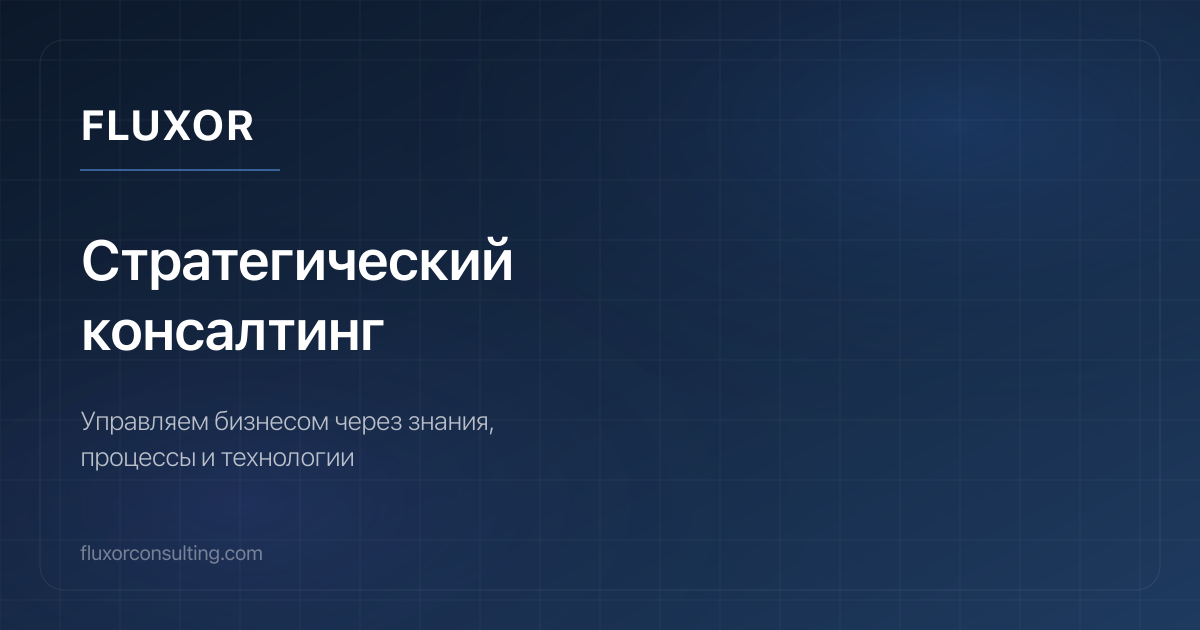
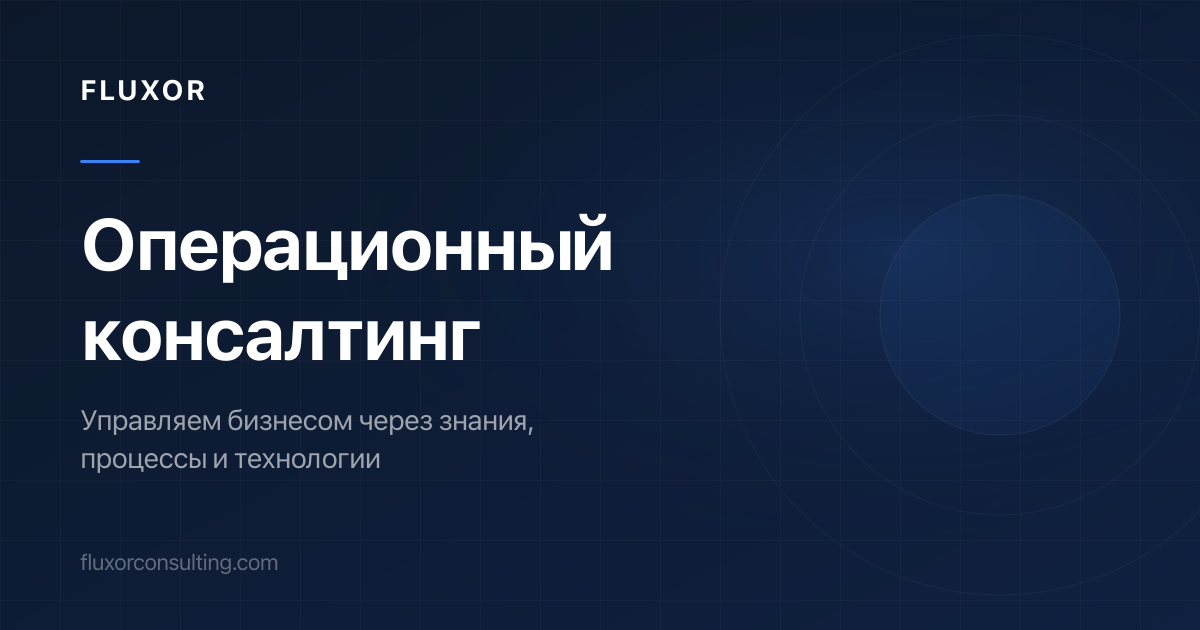
Операционный консалтинг, динамические карточки опыта, фиксы Safari
- Везде заменён «стратегический» на «операционный» (тексты, meta, OG)
- OG-картинка перегенерирована
- AdvantagesPortfolio: карточки читаются из JSON динамически (длина массива)
- Убрана карточка ретейла, осталось 2 кейса
- globals.css: body background #0c182a (убрана белая подложка при скролле)
- layout.tsx: favicon.ico + apple-icon.png прописаны явно в metadata
- favicon.ico добавлен в public/

diff --git a/src/components/sections/Hero.tsx b/src/components/sections/Hero.tsx
@@ -56,7 +56,7 @@ export default function Hero() {
           <div className="grid lg:grid-cols-12 gap-[clamp(1.5rem,3vh,3rem)] lg:gap-8 items-center">
             {/* Left — Text Content */}
             <div className="lg:col-span-6 flex flex-col justify-center">
-              <div className="inline-flex items-center gap-2 px-3 py-1.5 rounded-full bg-white/[0.06] border border-white/[0.12] backdrop-blur-md mb-[clamp(0.75rem,2vh,1.5rem)] w-fit text-sm font-medium text-white/80">
+              <div className="inline-flex items-center gap-2 px-3 py-1.5 rounded-full bg-white/[0.08] border border-white/[0.12] mb-[clamp(0.75rem,2vh,1.5rem)] w-fit text-sm font-medium text-white/80">
                 <span className="w-2 h-2 rounded-full bg-blue-400 animate-pulse" />
                 {t('badge')}
               </div>
@@ -78,7 +78,7 @@ export default function Hero() {
                 </a>
                 <a
                   href="#solutions"
-                  className="w-full sm:w-auto px-6 py-3 bg-white/5 backdrop-blur-md border border-white/10 text-white font-medium rounded-xl hover:bg-white/10 hover:border-white/20 transition-all text-center text-sm sm:text-base"
+                  className="w-full sm:w-auto px-6 py-3 bg-white/[0.08] border border-white/10 text-white font-medium rounded-xl hover:bg-white/[0.12] hover:border-white/20 transition-all text-center text-sm sm:text-base"
                 >
                   {t('learnMore')}
                 </a>
@@ -93,7 +93,7 @@ export default function Hero() {
                   return (
                     <div
                       key={area.key}
-                      className={`p-[clamp(1rem,2vh,1.75rem)] rounded-3xl bg-white/[0.06] border border-white/[0.12] backdrop-blur-xl hover:bg-white/[0.1] hover:border-white/[0.2] hover:-translate-y-1 hover:shadow-lg hover:shadow-white/[0.03] transition-all duration-300 cursor-default ${area.colSpan}`}
+                      className={`p-[clamp(1rem,2vh,1.75rem)] rounded-3xl bg-white/[0.08] border border-white/[0.12] hover:bg-white/[0.12] hover:border-white/[0.2] hover:-translate-y-1 hover:shadow-lg hover:shadow-white/[0.03] transition-all duration-300 cursor-default ${area.colSpan}`}
                     >
                       <div className="flex items-start mb-[clamp(0.75rem,1.5vh,1.25rem)]">
                         <div className="p-3 rounded-2xl bg-white/[0.06] border border-white/[0.12]">

diff --git a/src/app/[locale]/layout.tsx b/src/app/[locale]/layout.tsx
@@ -17,17 +17,17 @@ const SITE_URL = 'https://fluxorconsulting.com';
 
 const meta = {
   ru: {
-    title: 'Fluxor Consulting — Стратегический консалтинг',
+    title: 'Fluxor Consulting — Операционный консалтинг',
     description:
-      'Fluxor Consulting — эксперт в трансформации бизнеса через комплексный консалтинг и цифровизацию. Стратегия, процессы, технологии.',
-    ogDescription: 'Стратегический консалтинг. Измеримые результаты.',
+      'Fluxor Consulting — эксперт в трансформации бизнеса через комплексный операционный консалтинг и цифровизацию. Процессы, эффективность, результаты.',
+    ogDescription: 'Операционный консалтинг. Измеримые результаты.',
     locale: 'ru_RU',
   },
   en: {
-    title: 'Fluxor Consulting — Strategic Advisory',
+    title: 'Fluxor Consulting — Operational Consulting',
     description:
-      'Fluxor Consulting delivers senior-level expertise across strategy, finance, and operations. From strategy to implementation.',
-    ogDescription: 'Strategic Advisory. Measurable Results.',
+      'Fluxor Consulting delivers senior-level expertise in operational transformation, process efficiency, and digitalization. From diagnosis to measurable results.',
+    ogDescription: 'Operational Consulting. Measurable Results.',
     locale: 'en_US',
   },
 } as const;
@@ -74,6 +74,13 @@ export async function generateMetadata({ params }: Props): Promise<Metadata> {
       title: t.title,
       description: t.description,
       images: [`${SITE_URL}/og.png`],
+    },
+    icons: {
+      icon: [
+        { url: '/favicon.ico', sizes: '32x32' },
+        { url: '/icon.png', type: 'image/png', sizes: '32x32' },
+      ],
+      apple: '/apple-icon.png',
     },
     robots: {
       index: true,

diff --git a/src/components/sections/AdvantagesPortfolio.tsx b/src/components/sections/AdvantagesPortfolio.tsx
@@ -18,16 +18,16 @@ const cardColors = [
   'bg-sky-500/20 text-sky-300',
 ];
 
+type CardData = { company: string; role: string; result: string; description: string };
+
 export default function Portfolio() {
   const t = useTranslations('experience');
 
-  const cards = Array.from({ length: 3 }, (_, i) => ({
-    company: t(`cards.${i}.company`),
-    role: t(`cards.${i}.role`),
-    result: t(`cards.${i}.result`),
-    description: t(`cards.${i}.description`),
-    icon: cardIcons[i],
-    color: cardColors[i],
+  const rawCards = t.raw('cards') as CardData[];
+  const cards = rawCards.map((card, i) => ({
+    ...card,
+    icon: cardIcons[i % cardIcons.length],
+    color: cardColors[i % cardColors.length],
   }));
 
   return (
@@ -50,7 +50,7 @@ export default function Portfolio() {
           </button>
         </div>
 
-        <div className="grid grid-cols-1 md:grid-cols-3 gap-6 sm:gap-8">
+        <div className="grid grid-cols-1 md:grid-cols-2 gap-6 sm:gap-8">
           {cards.map((card, i) => (
             <div
               key={i}

diff --git a/src/app/globals.css b/src/app/globals.css
@@ -11,9 +11,9 @@
   --blue-accent: #4a6fa5;
 
   /* Neutrals */
-  --background: #ffffff;
+  --background: #0c182a;
   --surface: #f8fafc;
-  --foreground: #0B1526;
+  --foreground: #ffffff;
   --muted: #717182;
   --border: rgba(30, 58, 95, 0.1);
 
